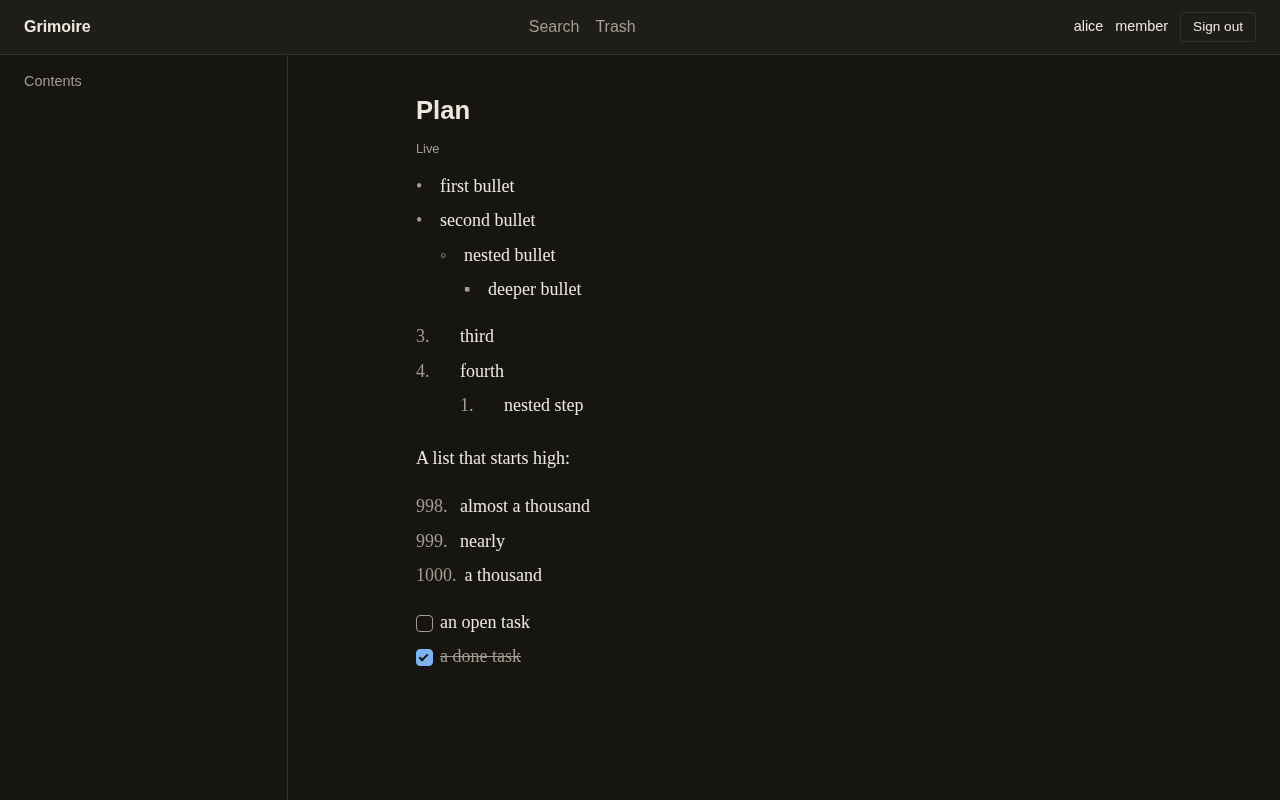
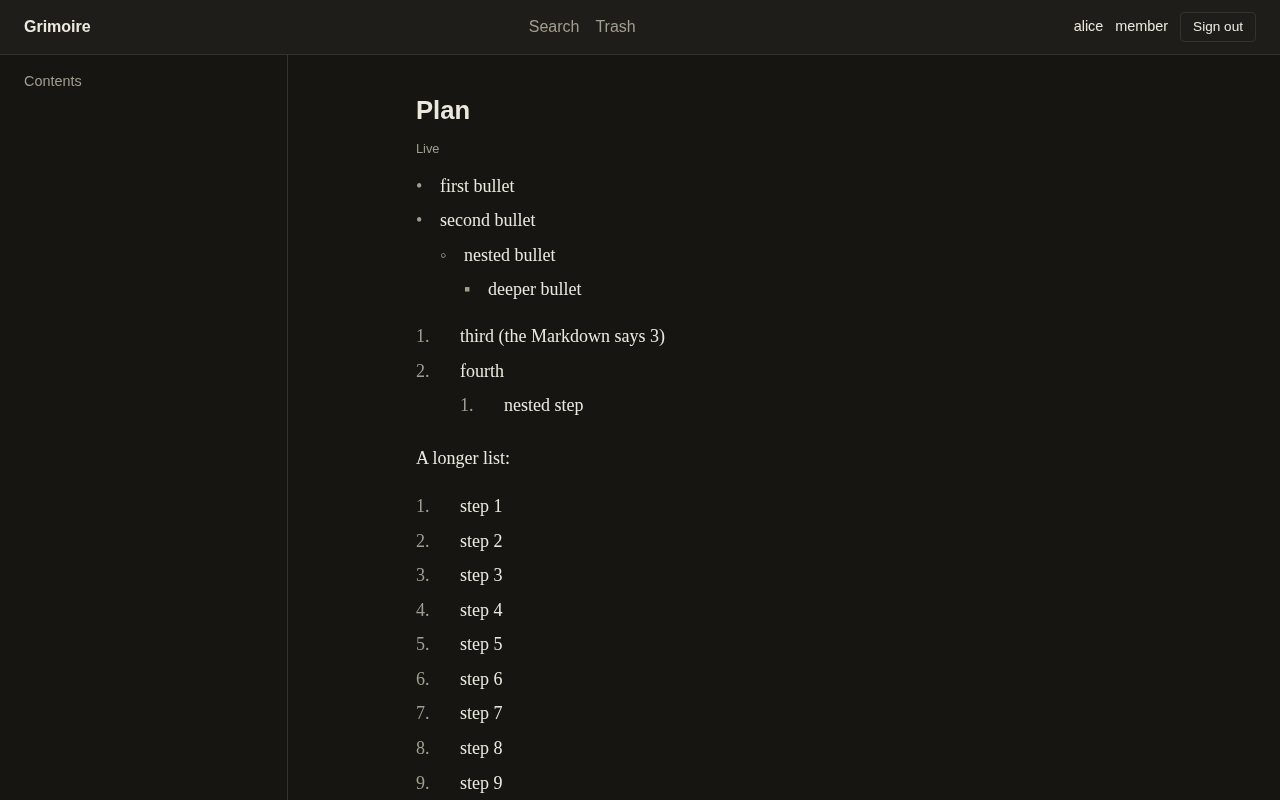
fix(web): number ordered list items from position, never from the stored label

diff --git a/apps/web/test-e2e/editor/lists.spec.ts b/apps/web/test-e2e/editor/lists.spec.ts
@@ -14,11 +14,9 @@ const MARKDOWN = [
   '4. fourth',
   '   1. nested step',
   '',
-  'A list that starts high:',
+  'A longer list:',
   '',
-  '998. almost a thousand',
-  '999. nearly',
-  '1000. a thousand',
+  ...Array.from({ length: 12 }, (_, i) => `${i + 1}. step ${i + 1}`),
   '',
   '- [ ] an open task',
   '- [x] a done task',
@@ -29,7 +27,7 @@ const marker = (item: Locator) => item.evaluate((li) => getComputedStyle(li, '::
 const style = (item: Locator, property: string, pseudo = '::before') => item.evaluate((li, [p, q]) => getComputedStyle(li, q).getPropertyValue(p as string), [property, pseudo] as const);
 
 test.describe('lists in the page text', () => {
-  test('bullets step through three shapes, numbers show as written, and task items draw a box that is filled when done', async ({ browser, baseURL }) => {
+  test('bullets step through three shapes, numbers come from position, and task items draw a box that is filled when done', async ({ browser, baseURL }) => {
     const made = await makePage(MARKDOWN);
     const users = await twoUsers(browser, baseURL);
     try {
@@ -43,15 +41,17 @@ test.describe('lists in the page text', () => {
       expect(await marker(bullets.nth(2))).toBe('"◦"');
       expect(await marker(bullets.nth(3))).toBe('"▪"');
       const numbered = editor.locator('li[data-list-type="ordered"]');
-      expect(await marker(numbered.nth(0))).toBe('"3."');
-      expect(await marker(numbered.nth(1))).toBe('"4."');
-      // A long number runs into nothing: the text starts after the whole label.
-      const long = editor.locator('li[data-label="1000."]');
-      expect(await marker(long)).toBe('"1000."');
+      // numbered by position, not from the stored label: a list that starts at 3 in the Markdown reads 1, 2
+      expect(await marker(numbered.nth(0))).toBe('counter(item-position) "."'); // Chrome reports the counter expression, not its value
+      expect(await marker(numbered.nth(1))).not.toContain('data-label');
+      // A wide number runs into nothing: the text starts after the whole label.
+      const long = editor.locator('li[data-list-type="ordered"]').filter({ hasText: /^step 12$/ });
+      expect(await marker(long)).toBe('counter(item-position) "."');
+      await expect(editor.locator('li[data-list-type="ordered"]').filter({ hasText: /^step 12$/ })).toHaveCount(1);
       const gap = await long.evaluate((li) => li.firstElementChild!.getBoundingClientRect().left - li.getBoundingClientRect().left);
       const labelWidth = await long.evaluate((li) => {
         const probe = document.createElement('span');
-        probe.textContent = getComputedStyle(li, '::before').content.replaceAll('"', '');
+        probe.textContent = '12.'; // the number the counter draws for this item
         probe.style.cssText = 'position:absolute;visibility:hidden;white-space:nowrap;font-variant-numeric:tabular-nums';
         li.append(probe);
         const width = probe.getBoundingClientRect().width;

diff --git a/apps/web/src/editor/core/lists.css b/apps/web/src/editor/core/lists.css
@@ -1,16 +1,19 @@
 /*
- * Lists in the editor's page text (scoped to the editor, so the plain lists of other pages that use the reading column keep their own markers). The editor keeps each item's marker as data (`data-label`: the bullet, or the number as written, so a list that
- * starts at 3 shows 3), so the marker is drawn from it rather than by the browser's own counter. Nested bullets step through three shapes;
- * task items draw a box, filled and ticked when done. Colours and spacing are tokens only.
+ * Lists in the editor's page text (scoped to the editor, so the plain lists of other pages that use the reading column keep their own markers).
+ * Bullets are drawn from the item's marker data. Ordered numbers are drawn from position, never from the stored label: merged concurrent edits can
+ * leave stale labels (1. 2. 3. 4. 4. 5.), so a counter numbers the items as they stand. Nested bullets step through three shapes; task items draw
+ * a box, filled and ticked when done. Colours and spacing are tokens only.
  */
 .page-editor.page-text ul,
 .page-editor.page-text ol { list-style: none; padding-inline-start: 0; margin: 0 0 var(--space-4); }
 .page-editor.page-text li > ul,
 .page-editor.page-text li > ol { margin: var(--space-1) 0 0; }
 .page-editor.page-text li { position: relative; padding-inline-start: var(--space-5); margin: 0 0 var(--space-1); }
-/* Ordered items: the marker has a column of its own that is at least wide enough for three digits and grows for a longer number (a list can start at 998). */
+/* Ordered items: numbered by position, in a column of their own that is at least wide enough for three digits and grows for a longer number. */
+.page-editor.page-text ol { counter-reset: item-position; }
+.page-editor.page-text ol > li { counter-increment: item-position; }
 .page-editor.page-text ol > li { display: grid; grid-template-columns: minmax(2em, max-content) minmax(0, 1fr); column-gap: var(--space-2); padding-inline-start: 0; }
-.page-editor.page-text ol > li::before { position: static; grid-column: 1; grid-row: 1; white-space: nowrap; }
+.page-editor.page-text ol > li::before { content: counter(item-position) '.'; position: static; grid-column: 1; grid-row: 1; white-space: nowrap; }
 .page-editor.page-text ol > li > * { grid-column: 2; }
 .page-editor.page-text li > p { margin: 0; line-height: 1.7; }
 .page-editor.page-text li::before { content: attr(data-label); position: absolute; inset-inline-start: 0; color: var(--muted); font-variant-numeric: tabular-nums; }

diff --git a/apps/web/test/editor/lists-css.test.ts b/apps/web/test/editor/lists-css.test.ts
@@ -17,17 +17,20 @@ describe('the list styles use the design tokens only', () => {
     for (const line of colours) expect(line).toMatch(/var\(--[a-z-]+\)|transparent|none|solid/);
   });
 
-  it('draws the markers it needs: bullets in three shapes, the number as written, a task box and a tick', () => {
-    expect(css).toContain('attr(data-label)');
+  it('draws the markers it needs: bullets in three shapes, the number from position, a task box and a tick', () => {
+    expect(css).toContain('attr(data-label)'); // bullets only: an ordered item's own rule below overrides it
+    expect(css).toContain('counter-increment: item-position');
+    expect(css).toContain("content: counter(item-position) '.'");
     expect(css).toContain("'\\25E6'");
     expect(css).toContain("'\\25AA'");
     expect(css).toContain("li[data-item-type='task']::before");
     expect(css).toContain("[data-checked='true']::after");
   });
 
-  it('gives the number of an ordered item a column that grows with it, so a long number never runs into the text', () => {
+  it('numbers ordered items by position, never from the stored label, in a column that grows with the number', () => {
     expect(css).toMatch(/ol > li \{[^}]*display: grid[^}]*max-content/);
     expect(css).toMatch(/ol > li::before \{[^}]*position: static/);
+    expect(css.match(/ol > li::before \{[^}]*\}/)![0]).not.toContain('data-label'); // the stored label is not used for numbers
   });
 
   it('applies to the editor only: every selector starts at the editor root, so the plain lists of other pages in the reading column keep their markers', () => {
